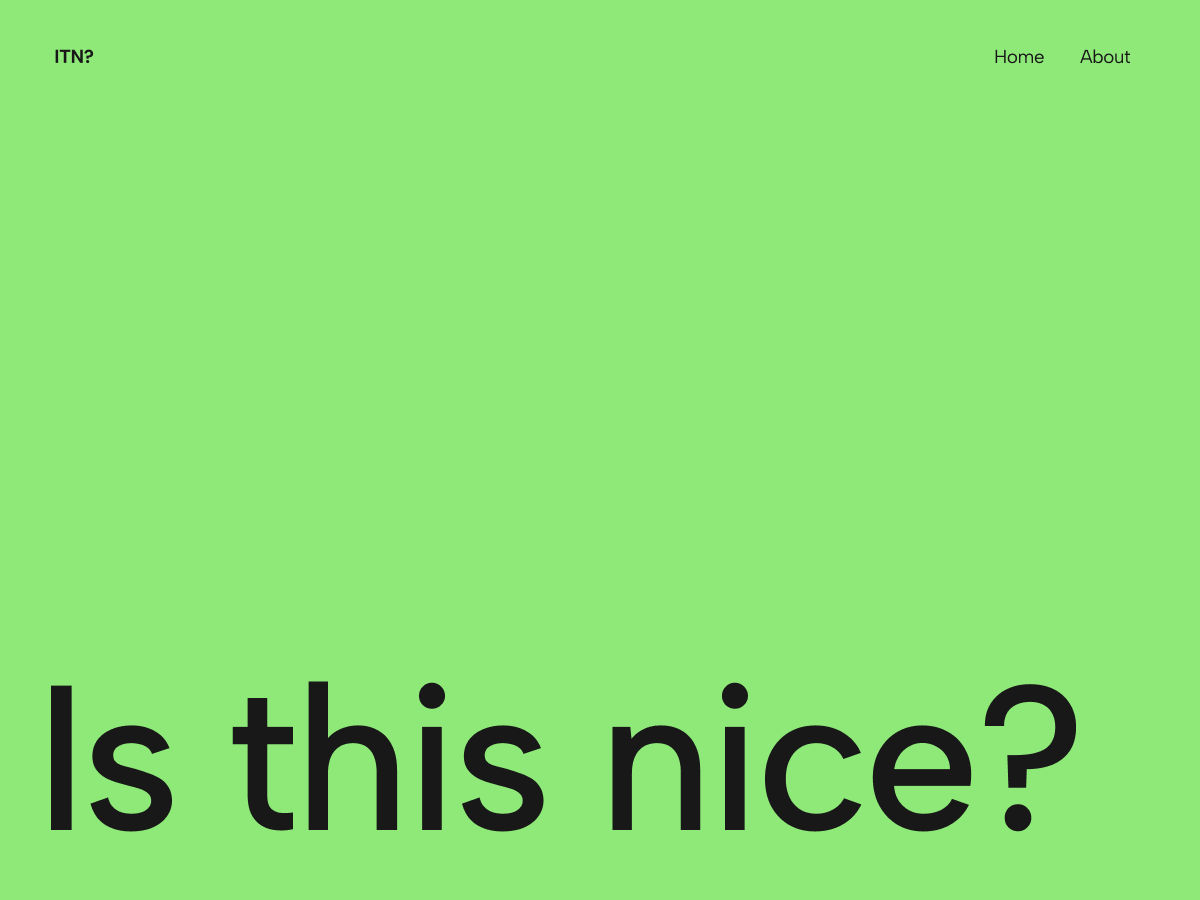
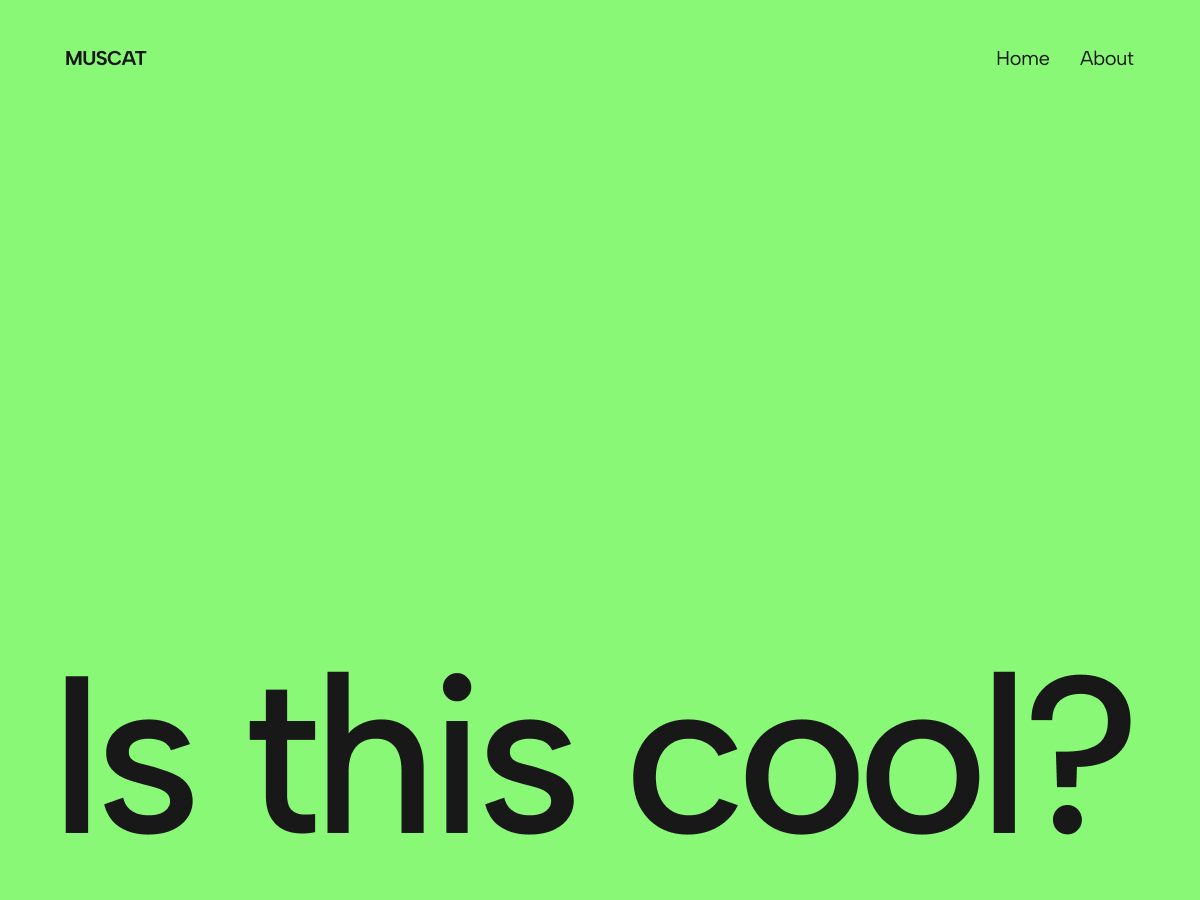
Changes from WordPress Playground, made some adjustments to the theme:
- Changed its main heading "Is this nice?" to "Is this cool?" after some feedback regarding the expression
- Adjustments in the outer spacing
- Adjustments in the templates wide widths
- Added font license
- Updated screenshot

diff --git a/muscat/templates/single.html b/muscat/templates/single.html
@@ -13,28 +13,24 @@
 <!-- wp:group {"tagName":"main","templateLock":false,"lock":{"move":false,"remove":false},"layout":{"type":"constrained"}} -->
 <main class="wp-block-group"><!-- wp:post-featured-image {"align":"wide"} /-->
 
-<!-- wp:spacer {"height":"80px"} -->
-<div style="height:80px" aria-hidden="true" class="wp-block-spacer"></div>
+<!-- wp:spacer {"height":"60px"} -->
+<div style="height:60px" aria-hidden="true" class="wp-block-spacer"></div>
 <!-- /wp:spacer -->
 
-<!-- wp:post-content {"lock":{"move":false,"remove":true},"layout":{"inherit":true},"style":{"dimensions":{"minHeight":"700px"}}} /-->
+<!-- wp:post-content {"lock":{"move":false,"remove":true},"layout":{"inherit":true}} /-->
 
 <!-- wp:spacer -->
 <div style="height:100px" aria-hidden="true" class="wp-block-spacer"></div>
 <!-- /wp:spacer --></main>
 <!-- /wp:group -->
 
-<!-- wp:group {"layout":{"type":"constrained"}} -->
-<div class="wp-block-group"><!-- wp:group {"align":"wide","layout":{"type":"flex","flexWrap":"nowrap","justifyContent":"space-between"}} -->
+<!-- wp:group {"style":{"border":{"top":{"width":"0px","style":"none"},"bottom":{"color":"var:preset|color|secondary","width":"1px"},"right":[],"left":[]},"spacing":{"padding":{"top":"var:preset|spacing|50","bottom":"var:preset|spacing|50"}}},"layout":{"type":"constrained"}} -->
+<div class="wp-block-group" style="border-top-style:none;border-top-width:0px;border-bottom-color:var(--wp--preset--color--secondary);border-bottom-width:1px;padding-top:var(--wp--preset--spacing--50);padding-bottom:var(--wp--preset--spacing--50)"><!-- wp:group {"align":"wide","layout":{"type":"flex","flexWrap":"nowrap","justifyContent":"space-between"}} -->
 <div class="wp-block-group alignwide"><!-- wp:post-navigation-link {"type":"previous","label":"","showTitle":true,"arrow":"chevron","style":{"elements":{"link":{"color":{"text":"var:preset|color|primary"}}}},"textColor":"secondary"} /-->
 
 <!-- wp:post-navigation-link {"label":"","showTitle":true,"arrow":"chevron","style":{"elements":{"link":{"color":{"text":"var:preset|color|primary"}}}},"textColor":"secondary","fontSize":"medium"} /--></div>
 <!-- /wp:group --></div>
 <!-- /wp:group -->
-
-<!-- wp:separator {"backgroundColor":"secondary","className":"is-style-wide"} -->
-<hr class="wp-block-separator has-text-color has-secondary-color has-alpha-channel-opacity has-secondary-background-color has-background is-style-wide"/>
-<!-- /wp:separator -->
 
 <!-- wp:group {"layout":{"inherit":true,"type":"constrained"}} -->
 <div class="wp-block-group"><!-- wp:spacer {"height":"40px"} -->
@@ -86,7 +82,7 @@
 <div style="height:20px" aria-hidden="true" class="wp-block-spacer"></div>
 <!-- /wp:spacer -->
 
-<!-- wp:post-comments-form {"fontSize":"medium"} /-->
+<!-- wp:post-comments-form /-->
 
 <!-- wp:spacer -->
 <div style="height:100px" aria-hidden="true" class="wp-block-spacer"></div>

diff --git a/muscat/templates/search.html b/muscat/templates/search.html
@@ -1,30 +1,24 @@
 <!-- wp:template-part {"slug":"header","tagName":"header"} /-->
 
-<!-- wp:group {"layout":{"type":"constrained"}} -->
-<div class="wp-block-group"><!-- wp:spacer -->
+<!-- wp:group {"align":"wide","style":{"spacing":{"padding":{"right":"5vw","left":"5vw"}}},"layout":{"type":"default"}} -->
+<div class="wp-block-group alignwide" style="padding-right:5vw;padding-left:5vw"><!-- wp:spacer -->
 <div style="height:100px" aria-hidden="true" class="wp-block-spacer"></div>
 <!-- /wp:spacer -->
 
 <!-- wp:query-title {"type":"search","align":"wide"} /-->
 
-<!-- wp:group {"align":"wide","layout":{"type":"default"}} -->
-<div class="wp-block-group alignwide"><!-- wp:search {"showLabel":false,"buttonPosition":"button-inside","style":{"border":{"radius":"0px","width":"0px","style":"none"}}} /--></div>
-<!-- /wp:group -->
+<!-- wp:search {"showLabel":false,"buttonPosition":"button-inside","style":{"border":{"width":"0px","style":"none"}}} /-->
 
 <!-- wp:spacer {"height":"40px"} -->
 <div style="height:40px" aria-hidden="true" class="wp-block-spacer"></div>
 <!-- /wp:spacer --></div>
 <!-- /wp:group -->
 
-<!-- wp:spacer -->
-<div style="height:100px" aria-hidden="true" class="wp-block-spacer"></div>
-<!-- /wp:spacer -->
-
-<!-- wp:group {"style":{"spacing":{"padding":{"right":"var:preset|spacing|60","left":"var:preset|spacing|60"}}},"layout":{"type":"default"}} -->
-<div class="wp-block-group" style="padding-right:var(--wp--preset--spacing--60);padding-left:var(--wp--preset--spacing--60)"><!-- wp:query {"queryId":0,"query":{"perPage":10,"pages":0,"offset":0,"postType":"post","order":"desc","orderBy":"date","author":"","search":"","exclude":[],"sticky":"","inherit":true,"taxQuery":null,"parents":[]},"tagName":"main","displayLayout":{"type":"flex","columns":3},"layout":{"inherit":true}} -->
-<main class="wp-block-query"><!-- wp:post-template {"align":"wide"} -->
+<!-- wp:group {"style":{"spacing":{"padding":{"right":"5vw","left":"5vw"}}},"layout":{"type":"constrained"}} -->
+<div class="wp-block-group" style="padding-right:5vw;padding-left:5vw"><!-- wp:query {"queryId":0,"query":{"perPage":10,"pages":0,"offset":0,"postType":"post","order":"desc","orderBy":"date","author":"","search":"","exclude":[],"sticky":"","inherit":true,"taxQuery":null,"parents":[]},"tagName":"main","align":"wide","layout":{"type":"constrained"}} -->
+<main class="wp-block-query alignwide"><!-- wp:post-template {"align":"wide","layout":{"type":"grid","columnCount":3}} -->
 <!-- wp:group -->
-<div class="wp-block-group"><!-- wp:post-featured-image {"isLink":true,"height":"340px"} /-->
+<div class="wp-block-group"><!-- wp:post-featured-image {"isLink":true,"aspectRatio":"3/2","height":""} /-->
 
 <!-- wp:post-title {"isLink":true,"style":{"elements":{"link":{"color":{"text":"var:preset|color|foreground"}}},"typography":{"fontSize":"2.5rem"}}} /-->
 

diff --git a/muscat/templates/archive.html b/muscat/templates/archive.html
@@ -4,13 +4,15 @@
 <div style="height:100px" aria-hidden="true" class="wp-block-spacer"></div>
 <!-- /wp:spacer -->
 
-<!-- wp:group {"style":{"spacing":{"padding":{"right":"var:preset|spacing|60","left":"var:preset|spacing|60"}}},"layout":{"type":"default"}} -->
-<div class="wp-block-group" style="padding-right:var(--wp--preset--spacing--60);padding-left:var(--wp--preset--spacing--60)"><!-- wp:query-title {"type":"archive","style":{"spacing":{"margin":{"bottom":"100px"}}}} /-->
+<!-- wp:group {"style":{"spacing":{"padding":{"right":"var:preset|spacing|60","left":"var:preset|spacing|60"}}},"layout":{"type":"constrained"}} -->
+<div class="wp-block-group" style="padding-right:var(--wp--preset--spacing--60);padding-left:var(--wp--preset--spacing--60)"><!-- wp:group {"align":"wide","layout":{"type":"default"}} -->
+<div class="wp-block-group alignwide"><!-- wp:query-title {"type":"archive","align":"wide","style":{"spacing":{"margin":{"bottom":"var:preset|spacing|80"}}}} /--></div>
+<!-- /wp:group -->
 
-<!-- wp:query {"queryId":0,"query":{"perPage":10,"pages":0,"offset":0,"postType":"post","order":"desc","orderBy":"date","author":"","search":"","exclude":[],"sticky":"","inherit":true,"taxQuery":null,"parents":[]},"tagName":"main","displayLayout":{"type":"flex","columns":3},"layout":{"inherit":true}} -->
-<main class="wp-block-query"><!-- wp:post-template {"align":"wide"} -->
+<!-- wp:query {"queryId":0,"query":{"perPage":10,"pages":0,"offset":0,"postType":"post","order":"desc","orderBy":"date","author":"","search":"","exclude":[],"sticky":"","inherit":true,"taxQuery":null,"parents":[]},"tagName":"main","align":"wide","layout":{"type":"default"}} -->
+<main class="wp-block-query alignwide"><!-- wp:post-template {"align":"wide","style":{"spacing":{"blockGap":"var:preset|spacing|70"}},"layout":{"type":"grid","columnCount":3}} -->
 <!-- wp:group -->
-<div class="wp-block-group"><!-- wp:post-featured-image {"isLink":true,"height":"340px"} /-->
+<div class="wp-block-group"><!-- wp:post-featured-image {"isLink":true,"aspectRatio":"3/2","height":""} /-->
 
 <!-- wp:post-title {"isLink":true,"style":{"elements":{"link":{"color":{"text":"var:preset|color|foreground"}}},"typography":{"fontSize":"2.5rem"}}} /-->
 

diff --git a/muscat/parts/header-landing-page.html b/muscat/parts/header-landing-page.html
@@ -1,13 +1,1 @@
-<!-- wp:group {"align":"full","backgroundColor":"primary","layout":{"type":"default"}} -->
-<div class="wp-block-group alignfull has-primary-background-color has-background"><!-- wp:group {"align":"wide","style":{"spacing":{"padding":{"top":"var:preset|spacing|60","right":"var:preset|spacing|60","bottom":"var:preset|spacing|60","left":"var:preset|spacing|60"},"blockGap":"0"},"elements":{"link":{"color":{"text":"var:preset|color|background"}}}},"backgroundColor":"primary","textColor":"background","layout":{"type":"flex","flexWrap":"nowrap","justifyContent":"space-between","verticalAlignment":"center"}} -->
-<div class="wp-block-group alignwide has-background-color has-primary-background-color has-text-color has-background has-link-color" style="padding-top:var(--wp--preset--spacing--60);padding-right:var(--wp--preset--spacing--60);padding-bottom:var(--wp--preset--spacing--60);padding-left:var(--wp--preset--spacing--60)"><!-- wp:site-title {"textAlign":"left","style":{"typography":{"fontStyle":"normal","fontWeight":"700","textTransform":"uppercase"}},"fontSize":"medium"} /-->
-
-<!-- wp:navigation {"overlayMenu":"never","layout":{"type":"flex","justifyContent":"space-between"},"style":{"spacing":{"blockGap":"30px"}},"fontSize":"medium"} /--></div>
-<!-- /wp:group -->
-
-<!-- wp:group {"align":"full","layout":{"type":"constrained"}} -->
-<div class="wp-block-group alignfull"><!-- wp:heading {"align":"wide","style":{"typography":{"fontSize":"17rem","lineHeight":1,"letterSpacing":"-11px","fontStyle":"normal","fontWeight":"500"},"spacing":{"padding":{"top":"24rem","right":"0","bottom":"var:preset|spacing|60","left":"0"}}},"textColor":"background"} -->
-<h2 class="alignwide has-background-color has-text-color" style="padding-top:24rem;padding-right:0;padding-bottom:var(--wp--preset--spacing--60);padding-left:0;font-size:17rem;font-style:normal;font-weight:500;letter-spacing:-11px;line-height:1">Is this nice?</h2>
-<!-- /wp:heading --></div>
-<!-- /wp:group --></div>
-<!-- /wp:group -->
+<!-- wp:pattern {"slug":"muscat/header-landing-page"} /-->

diff --git a/muscat/templates/index.html b/muscat/templates/index.html
@@ -1,9 +1,33 @@
-<!-- wp:template-part {"slug":"header-landing-page"} /-->
+<!-- wp:template-part {"slug":"header","area":"header"} /-->
+
+<!-- wp:group {"align":"full","style":{"spacing":{"padding":{"right":"0","left":"0","top":"0","bottom":"0"}}},"layout":{"type":"default"}} -->
+<div class="wp-block-group alignfull" style="padding-top:0;padding-right:0;padding-bottom:0;padding-left:0"><!-- wp:query {"queryId":0,"query":{"perPage":10,"pages":0,"offset":0,"postType":"post","order":"desc","orderBy":"date","author":"","search":"","exclude":[],"sticky":"","inherit":true,"taxQuery":null,"parents":[]},"tagName":"main","layout":{"contentSize":null,"type":"constrained"}} -->
+<main class="wp-block-query"><!-- wp:post-template {"align":"wide","layout":{"type":"grid","columnCount":3},"fontSize":"medium"} -->
+<!-- wp:group -->
+<div class="wp-block-group"><!-- wp:post-featured-image {"isLink":true,"aspectRatio":"3/2","height":""} /-->
+
+<!-- wp:group {"style":{"spacing":{"blockGap":"var:preset|spacing|40"}},"layout":{"type":"default"}} -->
+<div class="wp-block-group"><!-- wp:post-title {"isLink":true,"style":{"elements":{"link":{"color":{"text":"var:preset|color|foreground"}}}},"fontSize":"large"} /-->
+
+<!-- wp:post-date /--></div>
+<!-- /wp:group -->
 
 <!-- wp:spacer {"height":"40px"} -->
 <div style="height:40px" aria-hidden="true" class="wp-block-spacer"></div>
-<!-- /wp:spacer -->
+<!-- /wp:spacer --></div>
+<!-- /wp:group -->
+<!-- /wp:post-template -->
 
-<!-- wp:pattern {"slug":"muscat/home-posts"} /-->
+<!-- wp:group {"align":"wide","layout":{"inherit":true,"type":"constrained"}} -->
+<div class="wp-block-group alignwide"><!-- wp:query-pagination {"align":"wide","layout":{"type":"flex","justifyContent":"space-between"}} -->
+<!-- wp:query-pagination-previous /-->
+
+<!-- wp:query-pagination-numbers /-->
+
+<!-- wp:query-pagination-next /-->
+<!-- /wp:query-pagination --></div>
+<!-- /wp:group --></main>
+<!-- /wp:query --></div>
+<!-- /wp:group -->
 
 <!-- wp:template-part {"slug":"footer","tagName":"footer"} /-->

diff --git a/muscat/templates/page.html b/muscat/templates/page.html
@@ -1,13 +1,13 @@
 <!-- wp:template-part {"slug":"header","tagName":"header"} /-->
 
-<!-- wp:group {"style":{"spacing":{"margin":{"top":"var:preset|spacing|80","bottom":"var:preset|spacing|80"}}},"layout":{"inherit":true,"type":"constrained"}} -->
-<div class="wp-block-group" style="margin-top:var(--wp--preset--spacing--80);margin-bottom:var(--wp--preset--spacing--80)"><!-- wp:post-title {"textAlign":"left","fontSize":"x-large"} /--></div>
+<!-- wp:group {"style":{"spacing":{"margin":{"top":"var:preset|spacing|80","bottom":"var:preset|spacing|60"}}},"layout":{"type":"constrained"}} -->
+<div class="wp-block-group" style="margin-top:var(--wp--preset--spacing--80);margin-bottom:var(--wp--preset--spacing--60)"><!-- wp:post-title {"textAlign":"left","fontSize":"x-large"} /--></div>
 <!-- /wp:group -->
 
-<!-- wp:group {"tagName":"main","lock":{"move":false,"remove":true},"layout":{"type":"constrained"}} -->
-<main class="wp-block-group"><!-- wp:post-featured-image {"align":"full","style":{"spacing":{"margin":{"top":"var:preset|spacing|80","right":"0","bottom":"var:preset|spacing|80","left":"0"}}}} /-->
+<!-- wp:group {"tagName":"main","lock":{"move":false,"remove":true},"style":{"spacing":{"padding":{"right":"5vw","left":"5vw"}}},"layout":{"type":"constrained"}} -->
+<main class="wp-block-group" style="padding-right:5vw;padding-left:5vw"><!-- wp:post-featured-image {"align":"wide","style":{"spacing":{"margin":{"top":"var:preset|spacing|50","right":"0","bottom":"var:preset|spacing|70","left":"0"}}}} /-->
 
-<!-- wp:post-content {"lock":{"move":false,"remove":true},"layout":{"inherit":true},"style":{"dimensions":{"minHeight":"700px"}}} /--></main>
+<!-- wp:post-content {"lock":{"move":false,"remove":false},"align":"wide","layout":{"type":"constrained"}} /--></main>
 <!-- /wp:group -->
 
 <!-- wp:template-part {"slug":"footer","tagName":"footer"} /-->

diff --git a/muscat/parts/header.html b/muscat/parts/header.html
@@ -1,7 +1,7 @@
-<!-- wp:group {"align":"full","style":{"spacing":{"padding":{"top":"var:preset|spacing|60","bottom":"var:preset|spacing|60","right":"var:preset|spacing|60","left":"var:preset|spacing|60"}}},"layout":{"type":"default"}} -->
-<div class="wp-block-group alignfull" style="padding-top:var(--wp--preset--spacing--60);padding-right:var(--wp--preset--spacing--60);padding-bottom:var(--wp--preset--spacing--60);padding-left:var(--wp--preset--spacing--60)"><!-- wp:group {"align":"full","layout":{"type":"flex","flexWrap":"nowrap","justifyContent":"space-between"}} -->
-<div class="wp-block-group alignfull"><!-- wp:site-title {"style":{"typography":{"fontStyle":"normal","fontWeight":"700","textTransform":"uppercase"}},"fontSize":"medium"} /-->
+<!-- wp:group {"align":"full","style":{"spacing":{"padding":{"top":"var:preset|spacing|60","bottom":"var:preset|spacing|60","left":"5vw","right":"5vw"}}},"layout":{"type":"constrained"}} -->
+<div class="wp-block-group alignfull" style="padding-top:var(--wp--preset--spacing--60);padding-right:5vw;padding-bottom:var(--wp--preset--spacing--60);padding-left:5vw"><!-- wp:group {"align":"wide","style":{"spacing":{"blockGap":"var:preset|spacing|60"}},"layout":{"type":"flex","flexWrap":"wrap","justifyContent":"space-between"}} -->
+<div class="wp-block-group alignwide"><!-- wp:site-title {"style":{"typography":{"fontStyle":"normal","fontWeight":"700","textTransform":"uppercase"}},"fontSize":"medium"} /-->
 
-<!-- wp:navigation {"overlayMenu":"never","layout":{"type":"flex","justifyContent":"space-between"},"style":{"spacing":{"blockGap":"30px"}},"fontSize":"medium"} /--></div>
+<!-- wp:navigation {"layout":{"type":"flex","justifyContent":"space-between"},"style":{"spacing":{"blockGap":"var:preset|spacing|50"}},"fontSize":"medium"} /--></div>
 <!-- /wp:group --></div>
 <!-- /wp:group -->

diff --git a/muscat/parts/footer.html b/muscat/parts/footer.html
@@ -1,1 +1,12 @@
-<!-- wp:pattern {"slug":"muscat/footer"} /-->
+<!-- wp:group {"align":"full","style":{"spacing":{"padding":{"top":"80px","bottom":"30px"}}},"layout":{"type":"constrained"}} -->
+<div class="wp-block-group alignfull" style="padding-top:80px;padding-bottom:30px"><!-- wp:group {"align":"wide","style":{"spacing":{"margin":{"bottom":"var:preset|spacing|70"}}},"layout":{"type":"default"}} -->
+<div class="wp-block-group alignwide" style="margin-bottom:var(--wp--preset--spacing--70)"><!-- wp:spacer {"height":"80px"} -->
+<div style="height:80px" aria-hidden="true" class="wp-block-spacer"></div>
+<!-- /wp:spacer -->
+
+<!-- wp:paragraph {"align":"left","style":{"typography":{"fontSize":"0.8rem","letterSpacing":"-0.2px"}}} -->
+<p class="has-text-align-left" style="font-size:0.8rem;letter-spacing:-0.2px">
+        Designed with <a href="https://wordpress.org" rel="nofollow">WordPress</a>    </p>
+<!-- /wp:paragraph --></div>
+<!-- /wp:group --></div>
+<!-- /wp:group -->

diff --git a/muscat/style.css b/muscat/style.css
@@ -7,7 +7,7 @@ Description: Muscat is a simple blogging WordPress theme with grid post template
 Requires at least: 5.8
 Tested up to: 5.9
 Requires PHP: 5.7
-Version: 1.0.4
+Version: 1.0.5
 License: GNU General Public License v2 or later
 License URI: http://www.gnu.org/licenses/gpl-2.0.html
 Template: 
@@ -35,8 +35,9 @@ Tags: one-column, custom-colors, custom-menu, custom-logo, editor-style, feature
 
 /*
  * Link styles
+ * https://github.com/WordPress/gutenberg/issues/42319
  */
 a {
-	text-decoration-thickness: .0625em !important;
-	text-underline-offset: .15em;
+	text-decoration-thickness: 0.5px !important;
+	text-underline-offset: .18em;
 }

diff --git a/muscat/templates/404.html b/muscat/templates/404.html
@@ -1,3 +1,1 @@
-<!-- wp:pattern {"slug":"muscat/hidden-404"} /-->
-
-<!-- wp:template-part {"slug":"footer","tagName":"footer"} /-->
+<!-- wp:pattern {"slug":"muscat/404"} /-->

diff --git a/muscat/templates/home.html b/muscat/templates/home.html
@@ -1,0 +1,1 @@
+<!-- wp:pattern {"slug":"muscat/home"} /-->

diff --git a/muscat/patterns/home.php b/muscat/patterns/home.php
@@ -1,0 +1,59 @@
+<?php
+/**
+ * Title: home
+ * Slug: muscat/home
+ * Categories: hidden
+ * Inserter: no
+ */
+?>
+<!-- wp:template-part {"slug":"header-landing-page"} /-->
+
+<!-- wp:spacer {"height":"40px"} -->
+<div style="height:40px" aria-hidden="true" class="wp-block-spacer"></div>
+<!-- /wp:spacer -->
+
+<!-- wp:group {"align":"full","style":{"spacing":{"padding":{"right":"0","left":"0","top":"0","bottom":"0"}}},"layout":{"type":"default"}} -->
+<div class="wp-block-group alignfull" style="padding-top:0;padding-right:0;padding-bottom:0;padding-left:0"><!-- wp:query {"queryId":0,"query":{"perPage":"9","pages":"9","offset":0,"postType":"post","order":"desc","orderBy":"date","author":"","search":"","exclude":[],"sticky":"","inherit":false,"taxQuery":null,"parents":[]},"tagName":"main","layout":{"contentSize":null,"type":"constrained"}} -->
+<main class="wp-block-query"><!-- wp:post-template {"align":"wide","layout":{"type":"grid","columnCount":3},"fontSize":"medium"} -->
+<!-- wp:group -->
+<div class="wp-block-group"><!-- wp:post-featured-image {"isLink":true,"aspectRatio":"3/2","height":""} /-->
+
+<!-- wp:group {"style":{"spacing":{"blockGap":"var:preset|spacing|40"}},"layout":{"type":"default"}} -->
+<div class="wp-block-group"><!-- wp:post-title {"isLink":true,"style":{"elements":{"link":{"color":{"text":"var:preset|color|foreground"}}}},"fontSize":"large"} /-->
+
+<!-- wp:post-date /--></div>
+<!-- /wp:group -->
+
+<!-- wp:spacer {"height":"40px"} -->
+<div style="height:40px" aria-hidden="true" class="wp-block-spacer"></div>
+<!-- /wp:spacer --></div>
+<!-- /wp:group -->
+<!-- /wp:post-template -->
+
+<!-- wp:group {"align":"wide","layout":{"inherit":true,"type":"constrained"}} -->
+<div class="wp-block-group alignwide"><!-- wp:query-pagination {"align":"wide","layout":{"type":"flex","justifyContent":"space-between"}} -->
+<!-- wp:query-pagination-previous /-->
+
+<!-- wp:query-pagination-numbers /-->
+
+<!-- wp:query-pagination-next /-->
+<!-- /wp:query-pagination --></div>
+<!-- /wp:group --></main>
+<!-- /wp:query --></div>
+<!-- /wp:group -->
+
+<!-- wp:spacer {"height":"80px"} -->
+<div style="height:80px" aria-hidden="true" class="wp-block-spacer"></div>
+<!-- /wp:spacer -->
+
+<!-- wp:group {"metadata":{"name":"Description heading"},"align":"wide","style":{"border":{"top":{"color":"var:preset|color|secondary","width":"1px"}},"spacing":{"padding":{"top":"var:preset|spacing|50"}}},"layout":{"type":"constrained"}} -->
+<div class="wp-block-group alignwide" style="border-top-color:var(--wp--preset--color--secondary);border-top-width:1px;padding-top:var(--wp--preset--spacing--50)"><!-- wp:heading {"level":3,"align":"wide","style":{"spacing":{"padding":{"right":"0","left":"0","top":"0","bottom":"0"}},"typography":{"letterSpacing":"-0.03em"}},"fontSize":"x-large"} -->
+<h3 class="wp-block-heading alignwide has-x-large-font-size" style="padding-top:0;padding-right:0;padding-bottom:0;padding-left:0;letter-spacing:-0.03em"><?php echo __('Is this cool? is a weekly digital publication that features artists, craftmakers and artisans.', 'muscat');?></h3>
+<!-- /wp:heading -->
+
+<!-- wp:spacer {"height":"40px"} -->
+<div style="height:40px" aria-hidden="true" class="wp-block-spacer"></div>
+<!-- /wp:spacer --></div>
+<!-- /wp:group -->
+
+<!-- wp:template-part {"slug":"footer","tagName":"footer"} /-->
